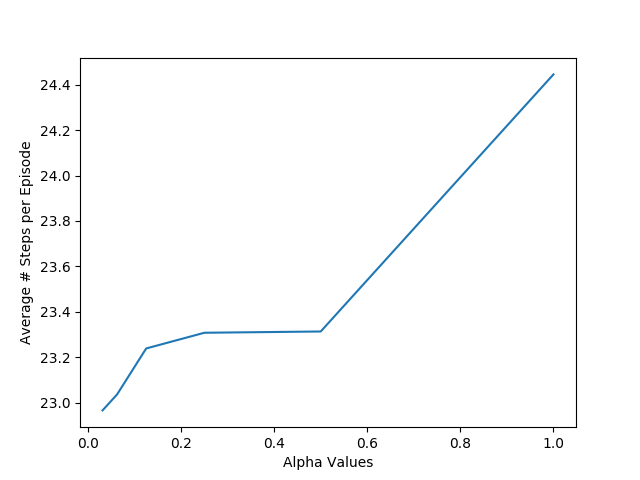
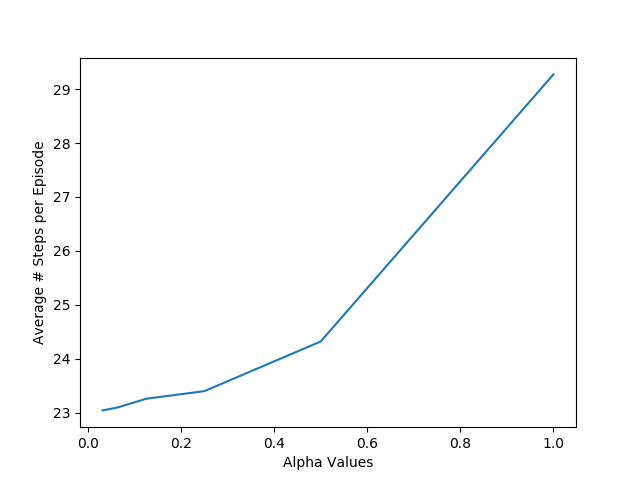
Better graphs

diff --git a/assignment5/part2/maze_exp.py b/assignment5/part2/maze_exp.py
@@ -19,7 +19,7 @@ import random
 if __name__ == "__main__":
     num_episodes = 50
     max_steps = 2500
-    num_runs = 50
+    num_runs = 100
 
     alpha_sweep = [0.03125, 0.0625, 0.125, 0.25, 0.5, 1.0]
 
@@ -30,7 +30,7 @@ if __name__ == "__main__":
         RL_agent_message(["alpha",alpha])
 
         for run in range(num_runs):
-            np.random.seed(5687461  + run)
+            np.random.seed(366609  + run)
             random.seed(123)
             # print("Seed = " + str(366 + run))
             print("run number: " + str(run))
